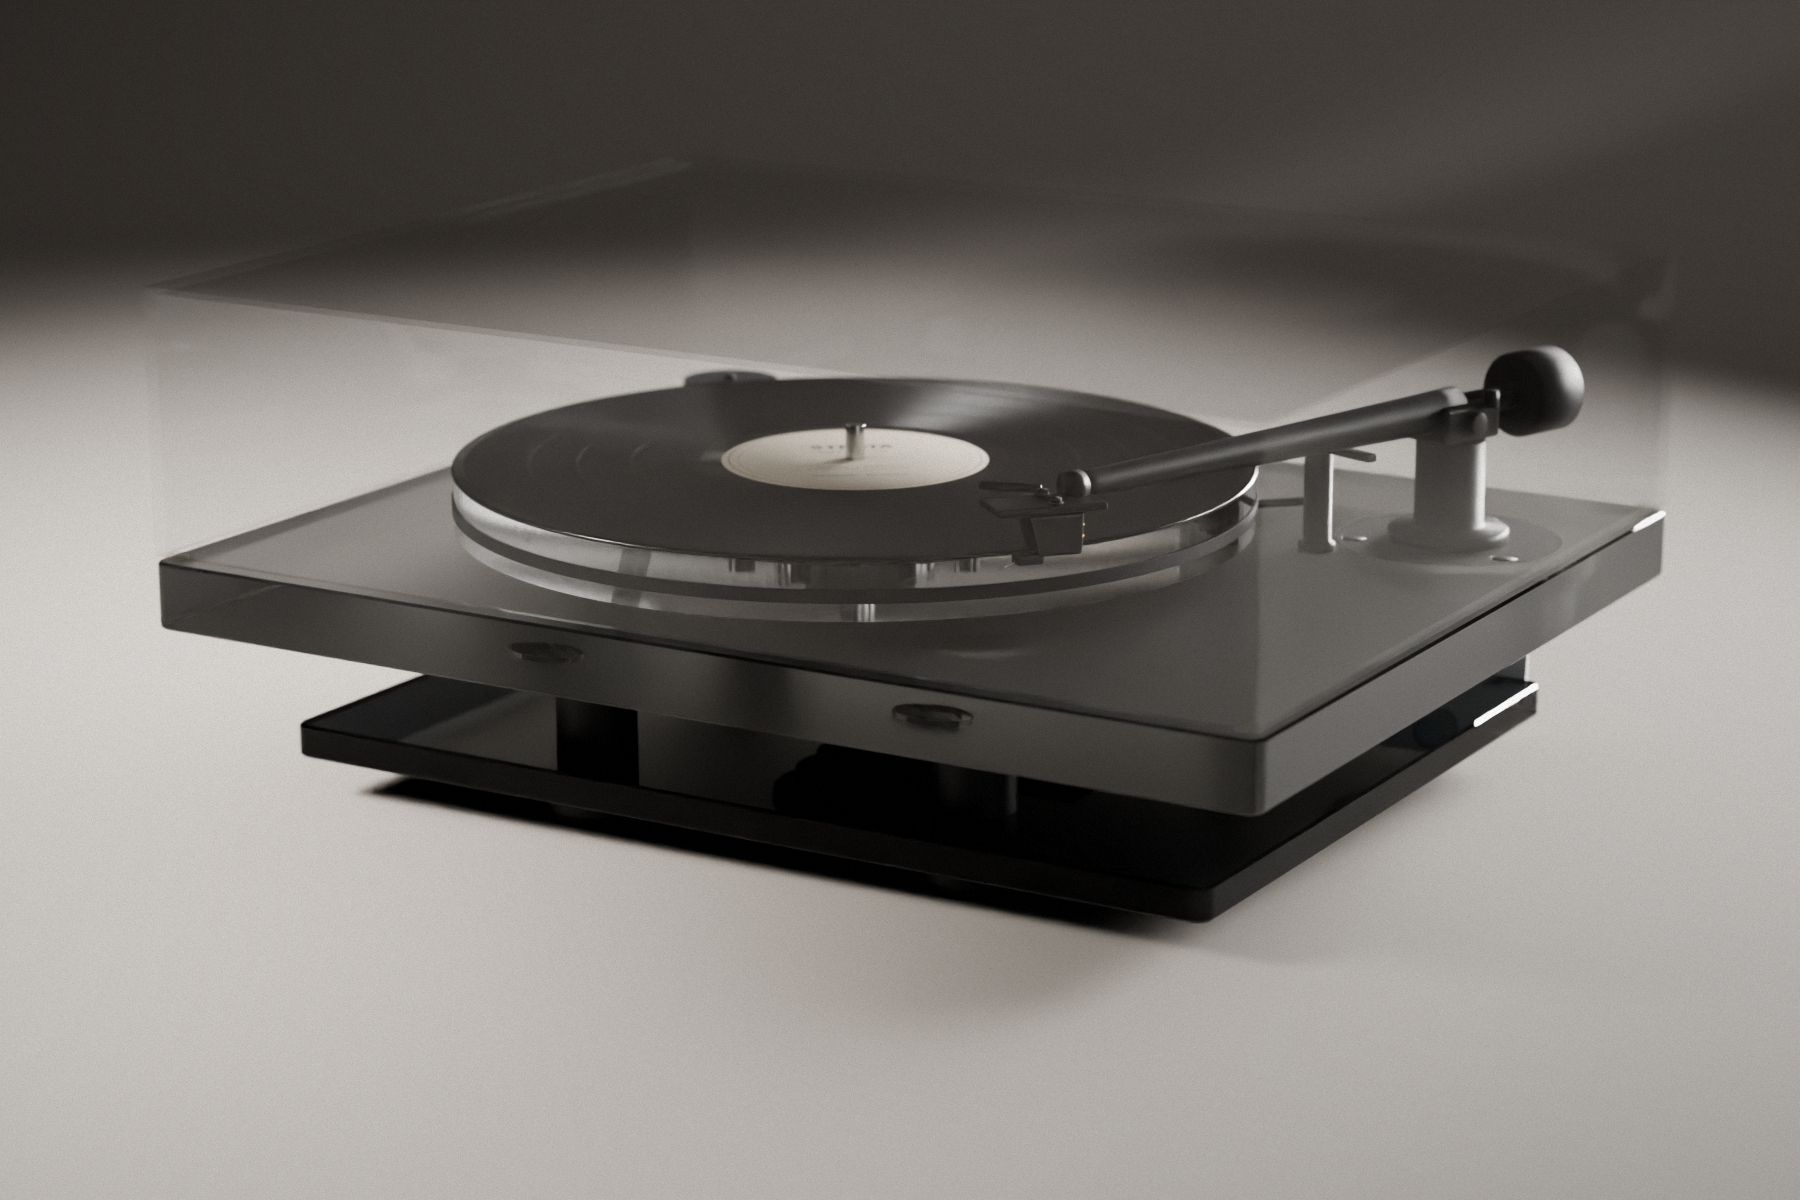
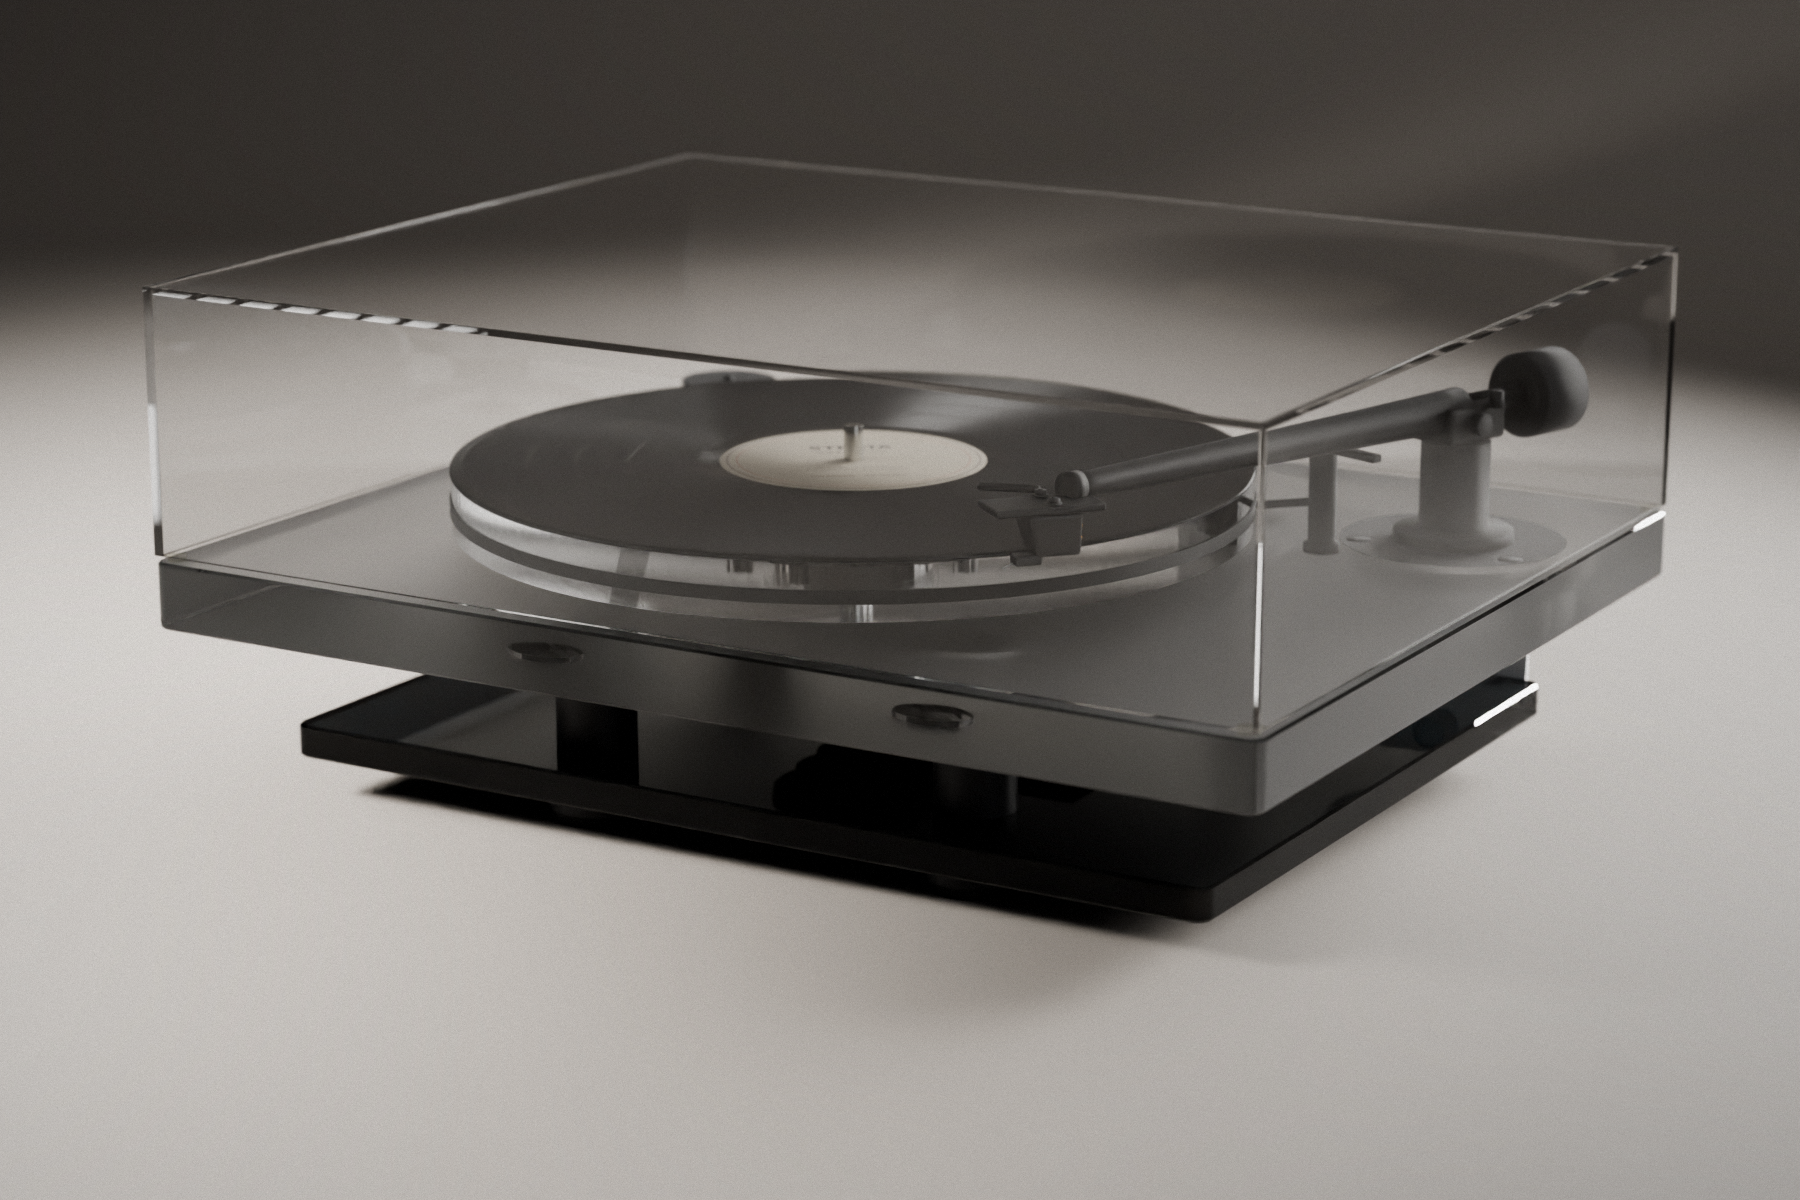
Mantle cover: Fog as the solid cover at 128 bounces; README size and weight
Fog re-rendered with --cover solid --cover-bounces 128, audited clean.
README's Strata v3 size and weight rows brought to the CAD and parts
list: 450 x 360 x 161 to the arm's top, 196 with the cover; about
11.6 kg, 12.7 kg with the cover.

Claude-Session: https://claude.ai/code/session_01BAaPTkQRnfd37XJHVyiVJC

diff --git a/spinoffs/barkhorn/companions/mantle-r48/README.md b/spinoffs/barkhorn/companions/mantle-r48/README.md
@@ -334,8 +334,8 @@ light notes above and in sections 12 and 13 are history. See "No light" at the e
 | hardware | every visible piece satin black (2026-11-11): the arm puck and pulley black anodized, the feet hot black oxide, black-oxide screws and studs, the cartridge's screws and washers black, the arm's counterweight and trim black (to confirm with Rega); bright by necessity the spindle's tip and the cartridge's cantilever, pins and diamond; $115 (an estimate), budget $3,957 |
 | bearing, hub | no brass in sight: the bearing's housing, nut and washer (2026-11-10), the platter's hub and its six inserts (2026-11-11) black nickel plated on the brass, satin, to match the posts; the rear plate, hidden under the deck, stays brass |
 | cover | lift-off (the owner, 2026-11-15), no hinges or hinge blocks: 3 mm cast sheet cemented as a box, 448 x 358 x 100, about 1.1 kg, on four clear polyurethane feet 2.2 thick, 1 in from the deck's outline; clears the arm's counterweight by about 33 above and 18-23 to the side and behind; in the deck's tint or clear (the owner's pick); budget $3,918 with the tint cover (hinges and blocks out, feet in) |
-| size | 450 W x about 370 D (with the hinges) x 94 H to the deck's top, about 199 H with the lid closed |
-| weight | about 12.9 kg with the lid (11.8 without); the supplies are outside it |
+| size | 450 W x 360 D x 161 H to the top of the arm (94 to the deck's top); 196 H with the cover on (the cover's top at 196.3 on its 2.2 mm feet); nothing outside the deck's outline (from the STLs, 2026-11-16) |
+| weight | about 11.6 kg, about 12.7 kg with the cover; the supplies are outside it. Made parts 10.27 kg and the cover 1.13 kg from the parts list's mass column; the phono stage 0.57 kg; the arm (about 0.30), motor (about 0.33) and small hardware (about 0.15) estimated, not weighed (2026-11-16) |
 
 ## 12. The light up through the acrylic (2026-11-03)
 
